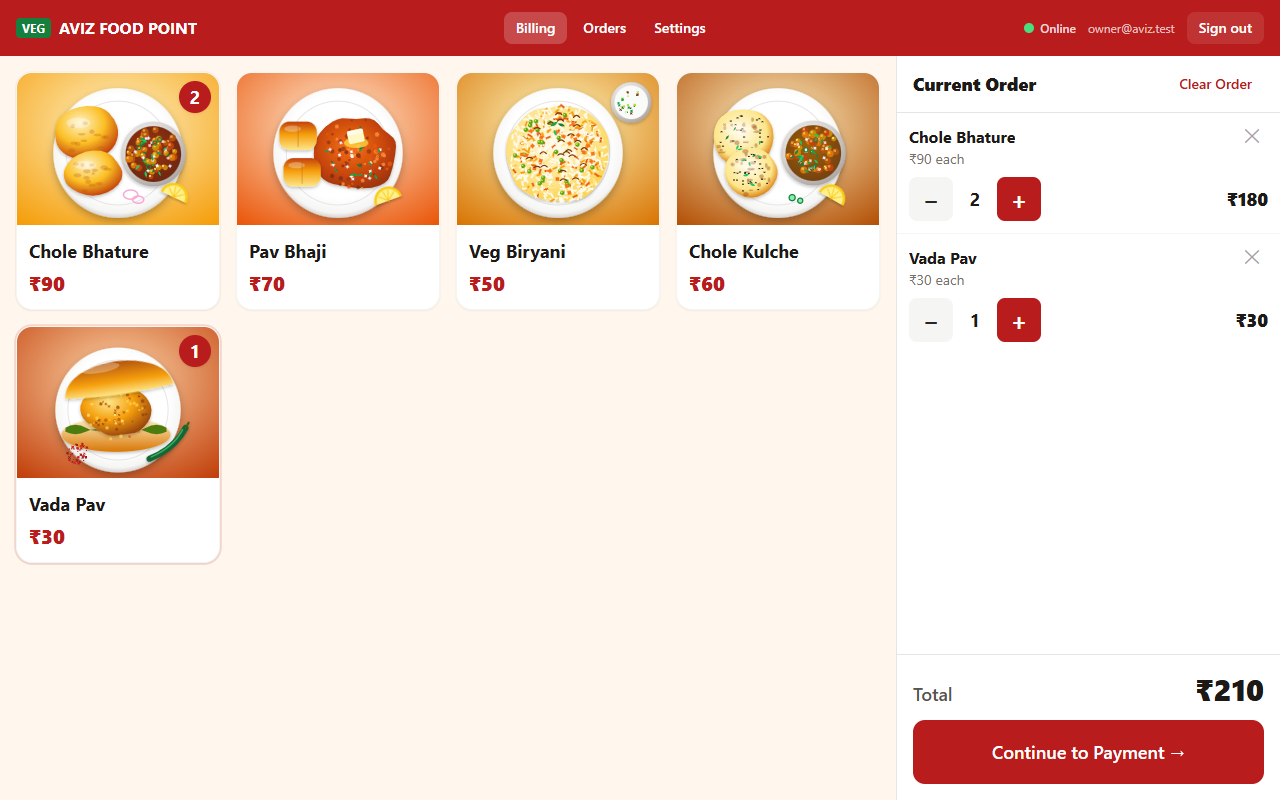
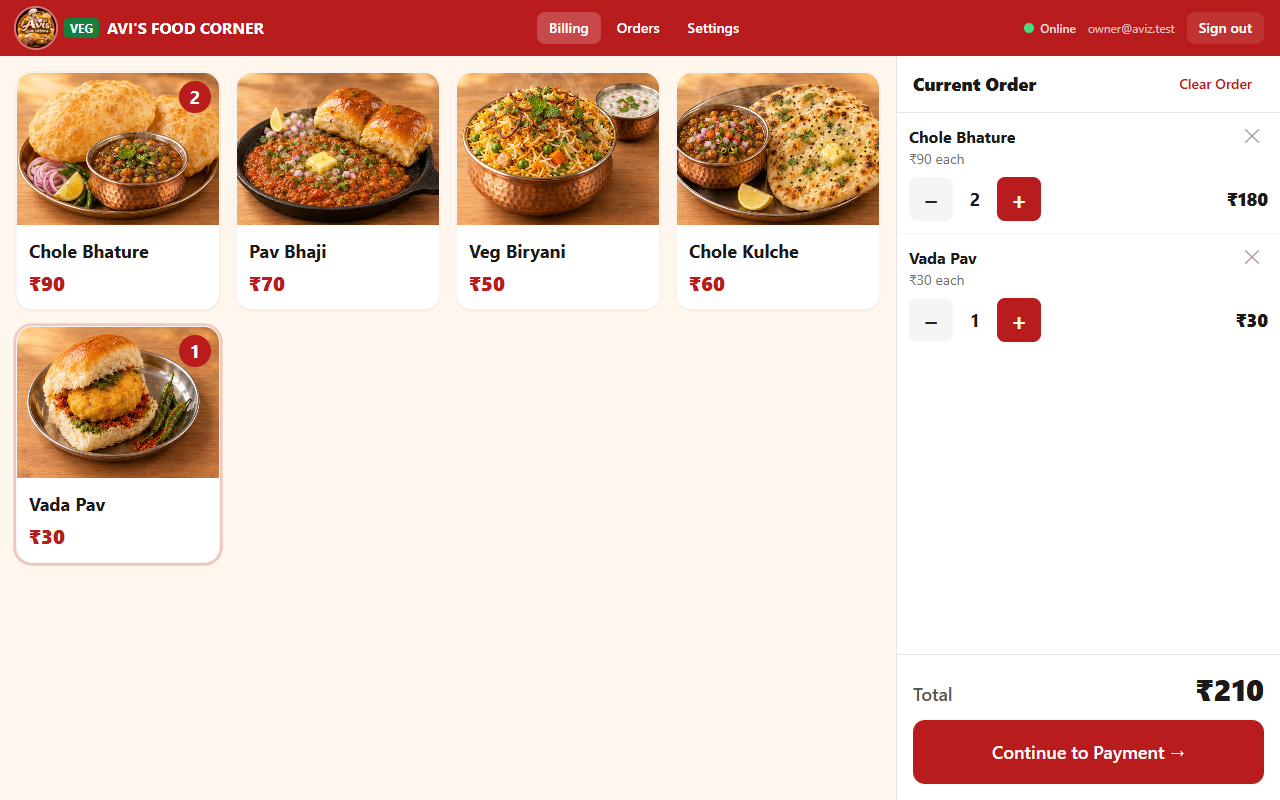
Use real dish photos for the default menu
- Five product photos and an empty-plate placeholder, cropped from the
  supplied collage and optimised to ~60 KB JPEGs
- Remove the old SVG illustrations; refresh README screenshots

diff --git a/src/lib/defaultProducts.ts b/src/lib/defaultProducts.ts
@@ -10,9 +10,9 @@ export interface DefaultProduct {
 }
 
 export const DEFAULT_PRODUCTS: DefaultProduct[] = [
-  { name: 'Chole Bhature', pricePaise: 9000, image: '/products/chole-bhature.svg' },
-  { name: 'Pav Bhaji', pricePaise: 7000, image: '/products/pav-bhaji.svg' },
-  { name: 'Veg Biryani', pricePaise: 5000, image: '/products/veg-biryani.svg' },
-  { name: 'Chole Kulche', pricePaise: 6000, image: '/products/chole-kulche.svg' },
-  { name: 'Vada Pav', pricePaise: 3000, image: '/products/vada-pav.svg' },
+  { name: 'Chole Bhature', pricePaise: 9000, image: '/products/chole-bhature.jpg' },
+  { name: 'Pav Bhaji', pricePaise: 7000, image: '/products/pav-bhaji.jpg' },
+  { name: 'Veg Biryani', pricePaise: 5000, image: '/products/veg-biryani.jpg' },
+  { name: 'Chole Kulche', pricePaise: 6000, image: '/products/chole-kulche.jpg' },
+  { name: 'Vada Pav', pricePaise: 3000, image: '/products/vada-pav.jpg' },
 ];

diff --git a/src/components/ProductCard.tsx b/src/components/ProductCard.tsx
@@ -8,7 +8,7 @@ interface ProductCardProps {
   onTap: () => void;
 }
 
-const FALLBACK_IMG = '/products/placeholder.svg';
+const FALLBACK_IMG = '/products/placeholder.jpg';
 
 /**
  * Large, tappable food card. One tap adds +1 (handled by parent). Shows a live

diff --git a/docs/SETUP.md b/docs/SETUP.md
@@ -26,9 +26,9 @@ For each product you can:
 
 Products are never deleted, so old orders and reports always stay correct.
 
-**Photos:** use bright, close-up, landscape photos of the actual dish on a plain background. The bundled
-pictures are illustrations to get you started; replacing them with your own food photos makes the screen
-faster to read.
+**Photos:** the app ships with sample photos of each dish. For the best result, replace them over time
+with bright, close-up, landscape photos of *your own* plates. Use the same angle and background for all
+of them so the screen stays easy to read.
 
 ## 3. Business and receipt
 
